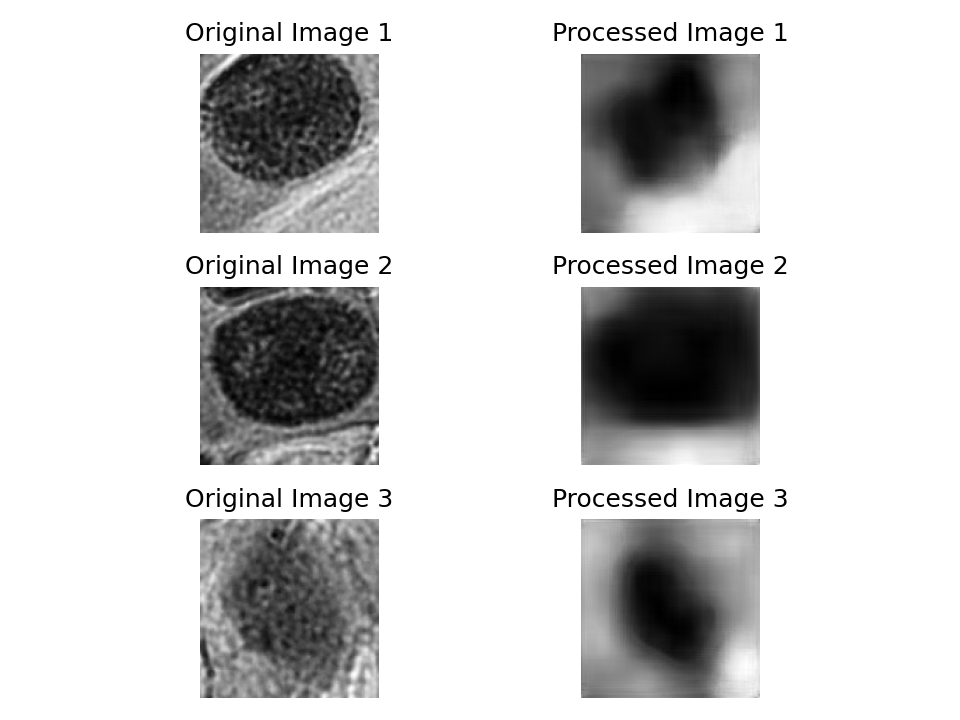
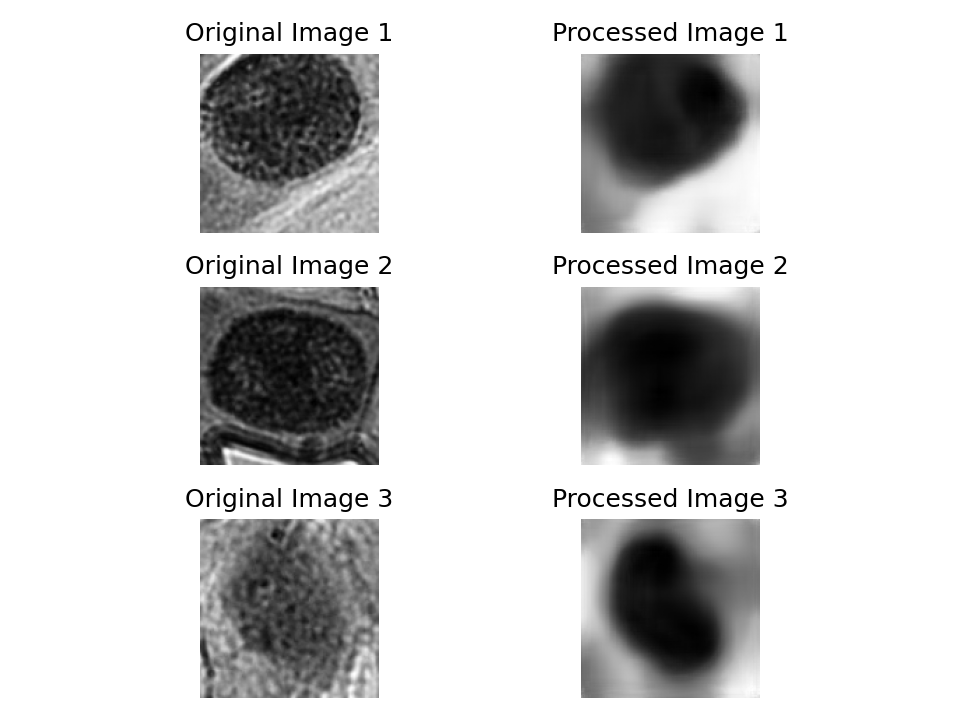
trained executed

diff --git a/experiments/cell-detection-encoders-training/encoder_train.py b/experiments/cell-detection-encoders-training/encoder_train.py
@@ -77,6 +77,20 @@ def main():
         required=True,
         help="Number of epochs to train.",
     )
+    parser.add_argument(
+        "--loss_MAE_weight",
+        "-lmw",
+        type=float,
+        required=True,
+        help="Weight of the MAE in the error function.",
+    )
+    parser.add_argument(
+        "--loss_SSIN_weight",
+        "-lsw",
+        type=float,
+        required=True,
+        help="Weight of the SSIM in the error function.",
+    )
 
     args = parser.parse_args()
 
@@ -88,6 +102,8 @@ def main():
     KERNEL_SIZE = [int(a) for a in args.kernel_size.split(",")]
     FILTER_SIZE = args.filter_size
     EPOCHS = args.epochs
+    K_MAE = args.loss_MAE_weight
+    K_SSIM = args.loss_SSIN_weight
 
     # Configure the GPU backend to use
     os.environ["CUDA_DEVICE_ORDER"] = "PCI_BUS_ID"
@@ -103,7 +119,6 @@ def main():
 
     # Do the rest of imports
     import random
-    import itertools
 
     import numpy as np
     import matplotlib.pyplot as plt
@@ -111,7 +126,7 @@ def main():
     import tensorflow as tf
     from tensorflow.keras import layers
     from keras.callbacks import EarlyStopping
-    from tensorflow.keras.models import Sequential, Model, clone_model
+    from tensorflow.keras.models import Sequential, Model
     from tensorflow.keras.optimizers import Adam
 
     from dvclive.keras import DVCLiveCallback
@@ -257,94 +272,10 @@ def main():
     encoder.summary()
     decoder.summary()
     autoencoder.summary()
-
-    # Compile & fit - Grid search
-
-    # Weight range from 0.2 to 1
-    y_values = np.arange(0.2, 1.2, 0.2)
-    z_values = np.arange(0.2, 1.2, 0.2)
-
-    # Combinations of weights
-    param_combinations = list(itertools.product(y_values, z_values))
-
-    random.seed(34)
-    random.shuffle(param_combinations)
-
-    # Normalize weights ---> y + z = 1
-    def normalize_weights(weights):
-        total_sum = sum(weights)
-        return tuple(weight / total_sum for weight in weights)
-
-    param_combinations = [normalize_weights(weights) for weights in param_combinations]
-    param_combinations = set(param_combinations)  # delete duplicate
-    print("Total combinations: ", len(param_combinations))
-    for i, combination in enumerate(param_combinations):
-        print(f"Combination {i+1}: ", tuple(map(float, combination)))
-
     # Train model
-
-    def evaluate_model(
-        autoencoder, train_gen, val_gen, params, steps_per_epoch, val_steps
-    ):
-        y, z = [np.round(arr, 2) for arr in params]
-
-        loss_fn = CustomLoss(y=y, z=z)
-        model = clone_model(autoencoder)
-        model.compile(loss=loss_fn, optimizer=Adam(learning_rate=1e-3))
-
-        early_stop = EarlyStopping(
-            monitor="val_loss", patience=5, restore_best_weights=True, verbose=0
-        )
-
-        history = model.fit(
-            train_gen,
-            steps_per_epoch=steps_per_epoch,
-            epochs=20,
-            validation_data=val_gen,
-            validation_steps=val_steps,
-            callbacks=[early_stop],
-            verbose=1,
-        )
-
-        val_loss = min(history.history["val_loss"])
-        return val_loss
-
-    best_params = None
-    best_loss = float("inf")
-
-    steps_per_epoch = int(len(train_paths) // BATCH_SIZE)
-    steps_per_epoch_val = int(len(val_paths) // BATCH_SIZE)
-
-    # Evaluate Autoencoder for all the combinations of weights
-
-    for params in param_combinations:
-        try:
-            val_loss = evaluate_model(
-                autoencoder,
-                train_dataset,
-                validation_dataset,
-                params,
-                steps_per_epoch,
-                steps_per_epoch_val,
-            )
-
-            print(f"Params {params} -> Val Loss: {val_loss}")
-            with Live() as live:
-                live.log_metric("param y", params[0], plot=False)
-                live.log_metric("param z", params[1], plot=False)
-                live.log_metric("loss", val_loss, plot=False)
-
-            if val_loss < best_loss:
-                best_loss = val_loss
-                best_params = params
-        except Exception as e:
-            print(f"{e}")
-
-    # Resultados finales
-    print(f"Best Params: {best_params} -> Best Val Loss: {best_loss}")
-
     # Compile y fit: Best Params
-    loss_fn = CustomLoss(y=best_params, z=best_loss)
+
+    loss_fn = CustomLoss(y=K_MAE, z=K_SSIM)
 
     steps_per_epoch = int(len(train_paths) // BATCH_SIZE)
     steps_per_epoch_val = int(len(val_paths) // BATCH_SIZE)
